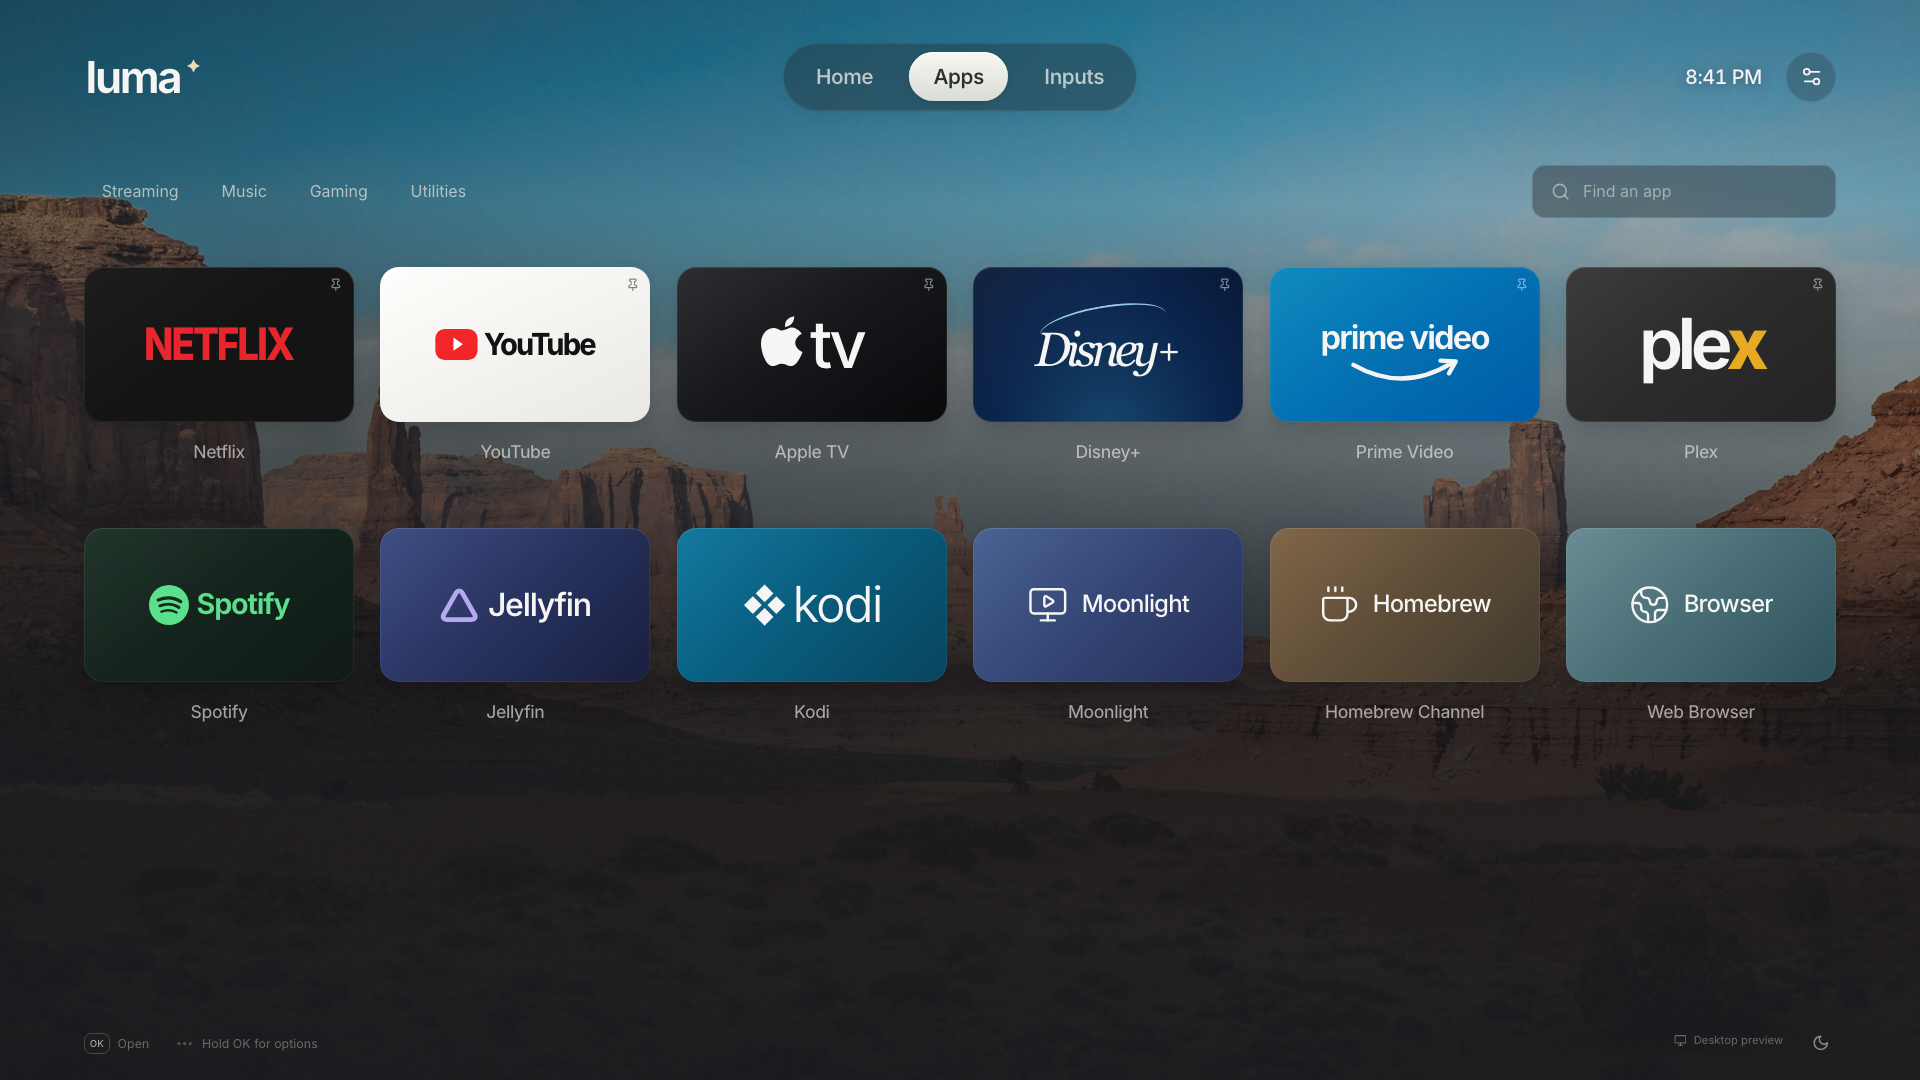
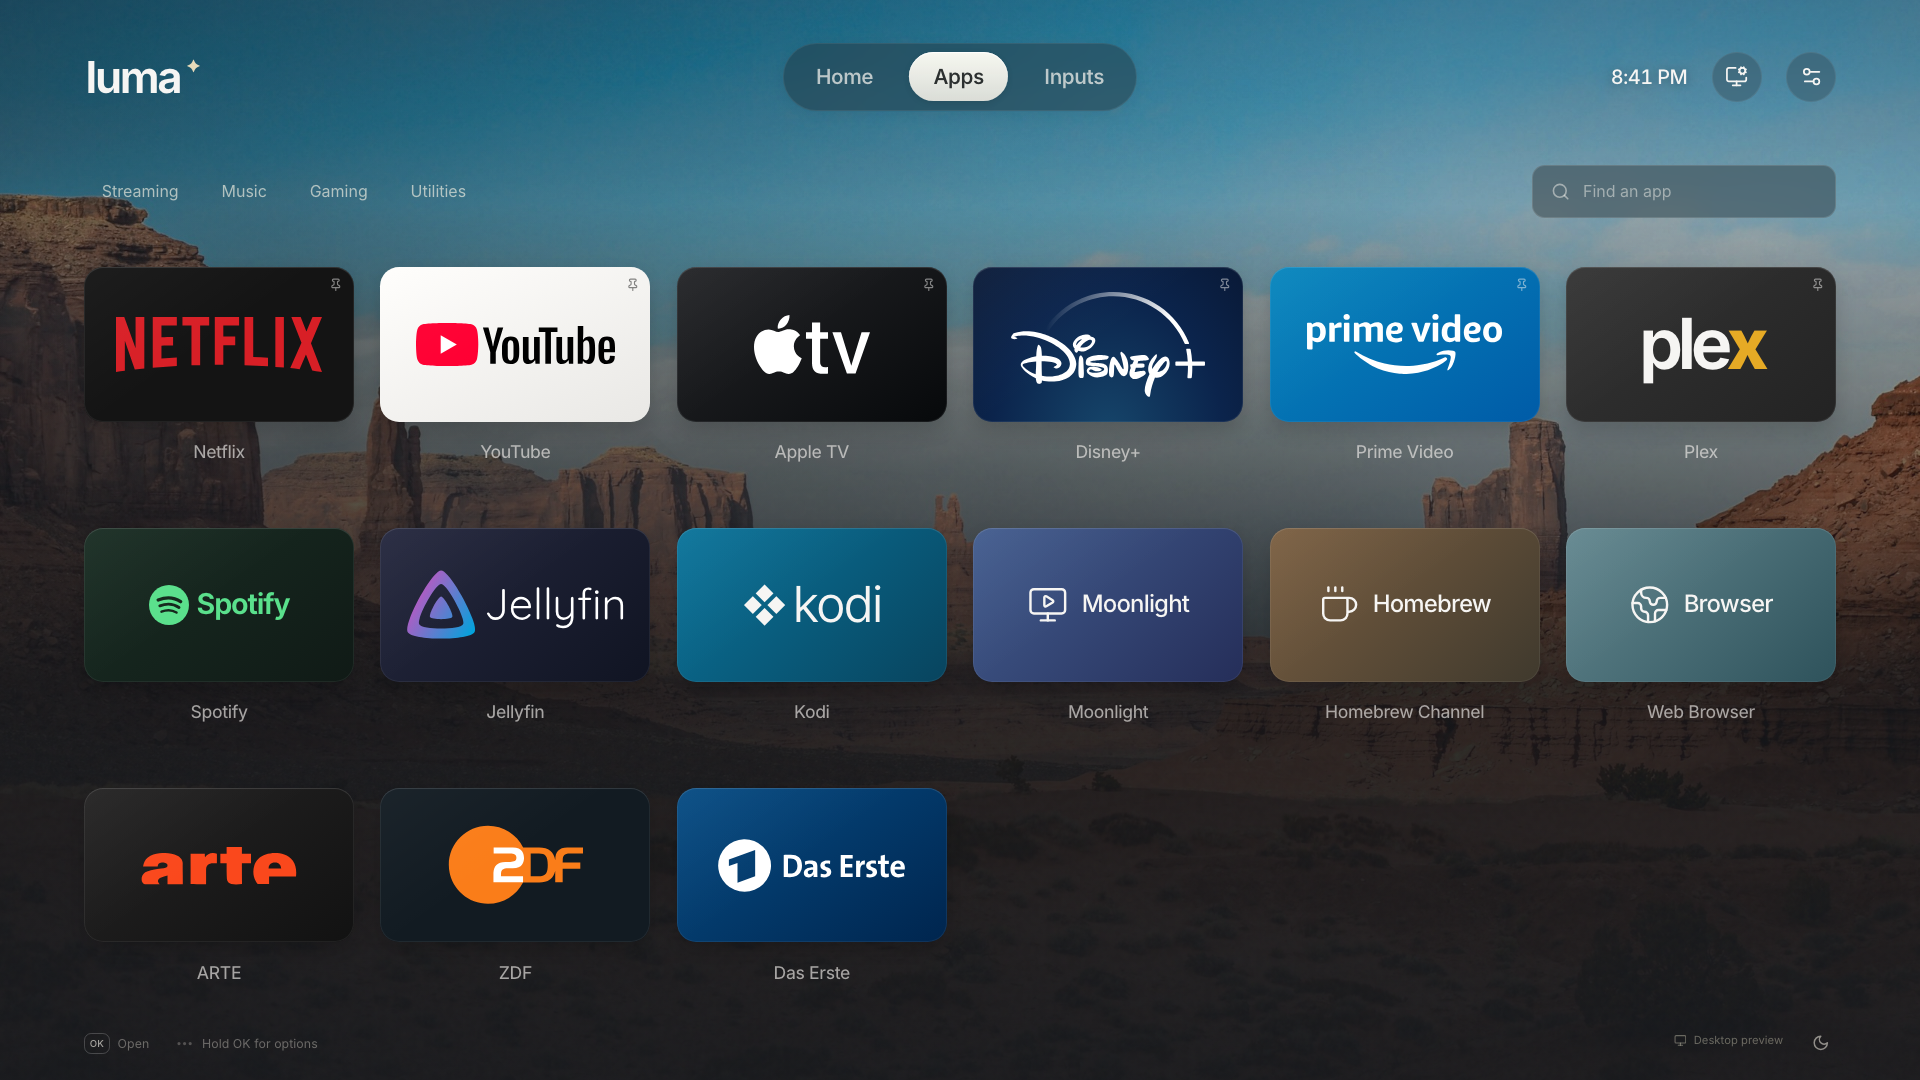
style: tweaks

diff --git a/tests/launcher.spec.ts b/tests/launcher.spec.ts
@@ -60,7 +60,9 @@ test('settings trap focus, change bundled backgrounds and preserve preferences',
   await settings.click();
   await expect(page.getByRole('button', { name: 'Close', exact: true })).toBeFocused();
   await page.keyboard.press('Shift+Tab');
-  await expect(page.getByRole('button', { name: 'TV settings', exact: false })).toBeFocused();
+  await expect(
+    page.getByRole('dialog').getByRole('button', { name: 'Refresh apps & inputs', exact: false }),
+  ).toBeFocused();
   await page.getByRole('button', { name: 'Higher ground', exact: false }).click();
   await page.getByRole('switch', { name: '24-hour clock', exact: false }).click();
   await page.getByRole('switch', { name: 'Reduced motion', exact: false }).click();
@@ -187,7 +189,9 @@ async function installMockTV(
   );
 }
 
-test('a TV uses its real inventory and sends a single validated launch', async ({ page }) => {
+test('a TV uses its real inventory and launches TV settings separately from Luma settings', async ({
+  page,
+}) => {
   await installMockTV(page, false);
   await page.goto('/');
   await expect(page.getByRole('button', { name: 'Open A real TV app', exact: true })).toBeVisible();
@@ -206,6 +210,25 @@ test('a TV uses its real inventory and sends a single validated launch', async (
   );
   expect(launches[0].payload).toEqual({ id: 'com.example.real' });
   await expect(page.getByRole('status')).toHaveCount(0);
+  await page.getByRole('button', { name: 'Luma settings', exact: true }).focus();
+  await page.keyboard.press('ArrowLeft');
+  await expect(page.getByRole('button', { name: 'TV settings', exact: true })).toBeFocused();
+  await page.keyboard.press('Enter');
+  await expect
+    .poll(() =>
+      page.evaluate(() =>
+        (window as any).__calls
+          .filter((call: any) => call.uri.endsWith('/launch'))
+          .map((call: any) => call.payload.id),
+      ),
+    )
+    .toEqual(['com.example.real', 'com.palm.app.settings']);
+  await expect(page.getByRole('dialog')).toHaveCount(0);
+  await page.getByRole('button', { name: 'Luma settings', exact: true }).click();
+  await expect(page.getByRole('dialog')).toBeVisible();
+  await expect(
+    page.getByRole('dialog').getByRole('button', { name: 'TV settings', exact: true }),
+  ).toHaveCount(0);
 });
 
 test('TV inventory failure is actionable and never becomes a pretend desktop inventory', async ({
@@ -228,6 +251,11 @@ test('mobile preview remains usable without horizontal overflow', async ({ page 
   );
   await page.getByRole('button', { name: 'Apps', exact: true }).click();
   await expect(page.getByRole('searchbox', { name: 'Find an app' })).toBeVisible();
+  const navigation = await page.getByRole('navigation', { name: 'Main navigation' }).boundingBox();
+  const tvSettings = await page
+    .getByRole('button', { name: 'TV settings', exact: true })
+    .boundingBox();
+  expect(navigation!.x + navigation!.width).toBeLessThan(tvSettings!.x);
   await page.getByRole('button', { name: 'Luma settings' }).click();
   await expect(page.getByRole('dialog')).toBeVisible();
 });

diff --git a/src/app.tsx b/src/app.tsx
@@ -8,6 +8,7 @@ import {
   Heart,
   LoaderCircle,
   Monitor,
+  MonitorCog,
   Moon,
   MoreHorizontal,
   Plus,
@@ -409,8 +410,25 @@ export function App() {
                 <time className="header-time">{time}</time>
                 <button
                   className="icon-button settings-button"
+                  data-focusable="tv-settings"
+                  aria-label="TV settings"
+                  title="TV settings"
+                  onClick={() =>
+                    void onLaunch({
+                      id: 'com.palm.app.settings',
+                      title: 'TV settings',
+                      category: 'Utilities',
+                      brand: 'settings',
+                    })
+                  }
+                >
+                  <MonitorCog strokeWidth={1.8} />
+                </button>
+                <button
+                  className="icon-button settings-button"
                   data-focusable="settings"
                   aria-label="Luma settings"
+                  title="Luma settings"
                   onClick={() => setSettingsOpen(true)}
                 >
                   <Settings2 strokeWidth={1.8} />
@@ -704,15 +722,6 @@ export function App() {
                 setSettingsOpen(false);
                 void refresh();
                 notify('Refreshing your apps and inputs…');
-              }}
-              onTVSettings={() => {
-                setSettingsOpen(false);
-                void onLaunch({
-                  id: 'com.palm.app.settings',
-                  title: 'TV settings',
-                  category: 'Utilities',
-                  brand: 'settings',
-                });
               }}
               onManage={() => {
                 setSettingsOpen(false);

diff --git a/src/components/settings.tsx b/src/components/settings.tsx
@@ -1,14 +1,4 @@
-import {
-  Check,
-  ChevronRight,
-  Clock3,
-  Eye,
-  Leaf,
-  Monitor,
-  RefreshCw,
-  Settings2,
-  Tv,
-} from 'lucide-react';
+import { Check, ChevronRight, Clock3, Eye, Leaf, Monitor, RefreshCw, Tv } from 'lucide-react';
 import { Dialog } from './dialog';
 import { WeatherSettings } from './weather-settings';
 import { isTV } from '../bridge';
@@ -20,18 +10,10 @@ interface Props {
   onUpdate: (patch: Partial<Preferences>) => void;
   onClose: () => void;
   onRefresh: () => void;
-  onTVSettings: () => void;
   onManage: () => void;
 }
 
-export function Settings({
-  preferences,
-  onUpdate,
-  onClose,
-  onRefresh,
-  onTVSettings,
-  onManage,
-}: Props) {
+export function Settings({ preferences, onUpdate, onClose, onRefresh, onManage }: Props) {
   return (
     <Dialog title="Settings" onClose={onClose} wide>
       <div className="settings-content">
@@ -111,14 +93,6 @@ export function Settings({
             <span>
               <strong>Refresh apps & inputs</strong>
               <small>Find anything you’ve recently installed.</small>
-            </span>
-            <ChevronRight />
-          </button>
-          <button className="setting-row" data-focusable="setting-tv" onClick={onTVSettings}>
-            <Settings2 />
-            <span>
-              <strong>TV settings</strong>
-              <small>Picture, sound, network, and more.</small>
             </span>
             <ChevronRight />
           </button>

diff --git a/src/styles.css b/src/styles.css
@@ -528,7 +528,7 @@ button svg {
   background: linear-gradient(145deg, #242323, #121212);
 }
 .brand-zdf {
-  background: linear-gradient(145deg, #fffefb, #eae8e2);
+  background: #121b22;
 }
 .brand-das-erste {
   background: linear-gradient(145deg, #064c84, #00254e);
@@ -629,7 +629,7 @@ button svg {
   display: flex;
   align-items: center;
   gap: 1rem;
-  background: linear-gradient(125deg, #20252bef, #171c22ed);
+  background: linear-gradient(125deg, #20252b99, #171c228c);
   border: 1px solid #fffdf010;
   padding: 1.1rem 1.25rem;
   min-height: 6.5rem;
@@ -641,7 +641,7 @@ button svg {
 }
 .input-card:hover,
 .input-card:focus-visible {
-  background: linear-gradient(125deg, #30363cf5, #242a30f2);
+  background: linear-gradient(125deg, #30363cb3, #242a30a6);
   border-color: #fff9e83d;
 }
 .input-card:focus-visible {
@@ -1653,15 +1653,29 @@ button svg {
 @media (max-width: 600px) {
   .header-right {
     display: flex;
+    gap: 0.65rem;
   }
   .header-time {
     display: none;
   }
   .navigation {
-    right: 3.6rem;
+    right: 6.8rem;
   }
   .settings-button {
     width: 2.6rem;
     height: 2.6rem;
+  }
+}
+@media (max-width: 380px) {
+  .header {
+    height: 8.3rem;
+    min-height: 8.3rem;
+    align-items: flex-start;
+  }
+  .navigation {
+    top: 4.2rem;
+    left: 50%;
+    right: auto;
+    transform: translateX(-50%);
   }
 }

diff --git a/readme.md b/readme.md
@@ -89,7 +89,7 @@ The caller needs `lunabus.query`, and Homebrew's mapping should contain `{"lunab
 
 Apps → select an app → hold OK to edit favorites. Move pinned apps left or right from the same panel. Hidden apps remain installed and can be restored with **Apps → Hidden apps**. Choose a category beside search to filter the library; select it again or use the × button to clear the filter. Long app names wrap instead of being truncated.
 
-Settings includes six bundled backdrops (including San Francisco, Munich, and Tokyo), weather location, 12/24-hour time, reduced motion, refresh, and TV settings. The moon button in the footer opens the ambient clock.
+The header has two settings buttons: the monitor-cog icon opens TV settings directly, and the sliders icon opens Luma settings. Luma settings includes six bundled backdrops (including San Francisco, Munich, and Tokyo), weather location, 12/24-hour time, reduced motion, and refresh. The moon button in the footer opens the ambient clock.
 
 Apple TV, Prime Video, Disney+, Jellyfin, Netflix, YouTube, ARTE, ZDF, and Das Erste use bundled SVG logos. Input cards choose connection artwork from the reported device name: PlayStation uses the supplied PlayStation mark, USB uses the USB symbol, unnamed HDMI ports use an HDMI connector, and other devices use a suitable generic icon. Icon selection does not change the input's launch target.
 
